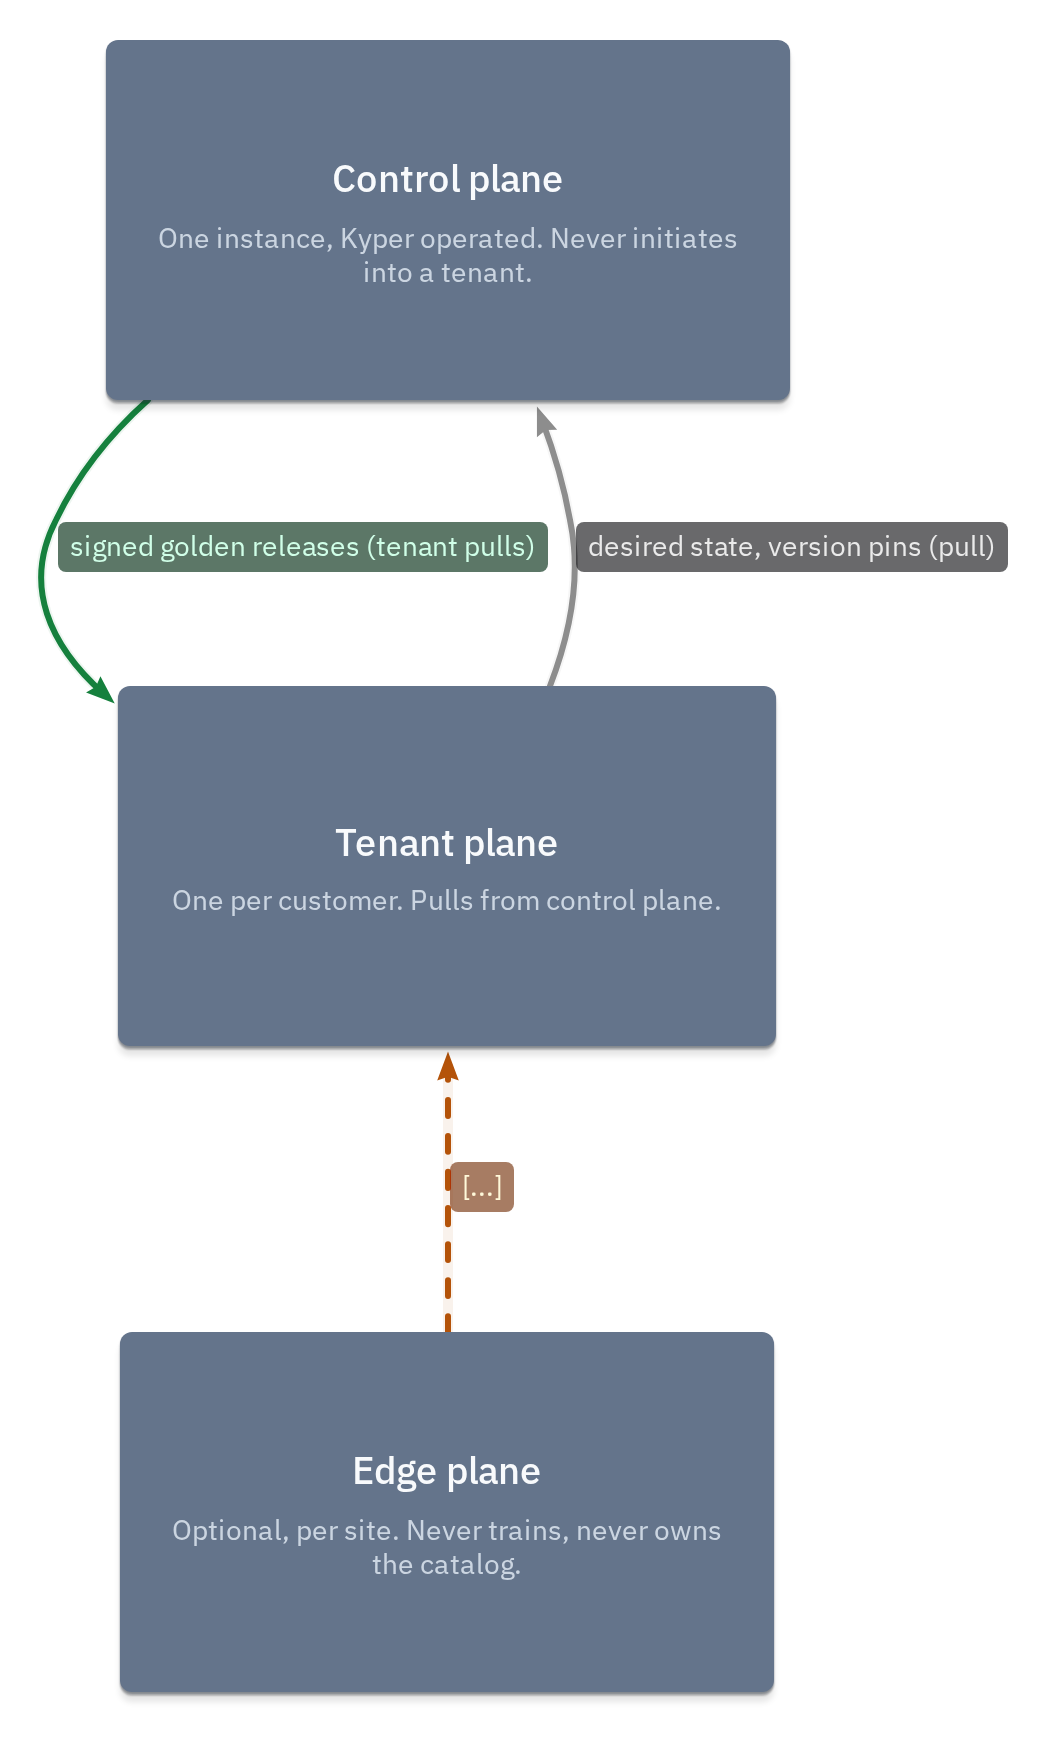
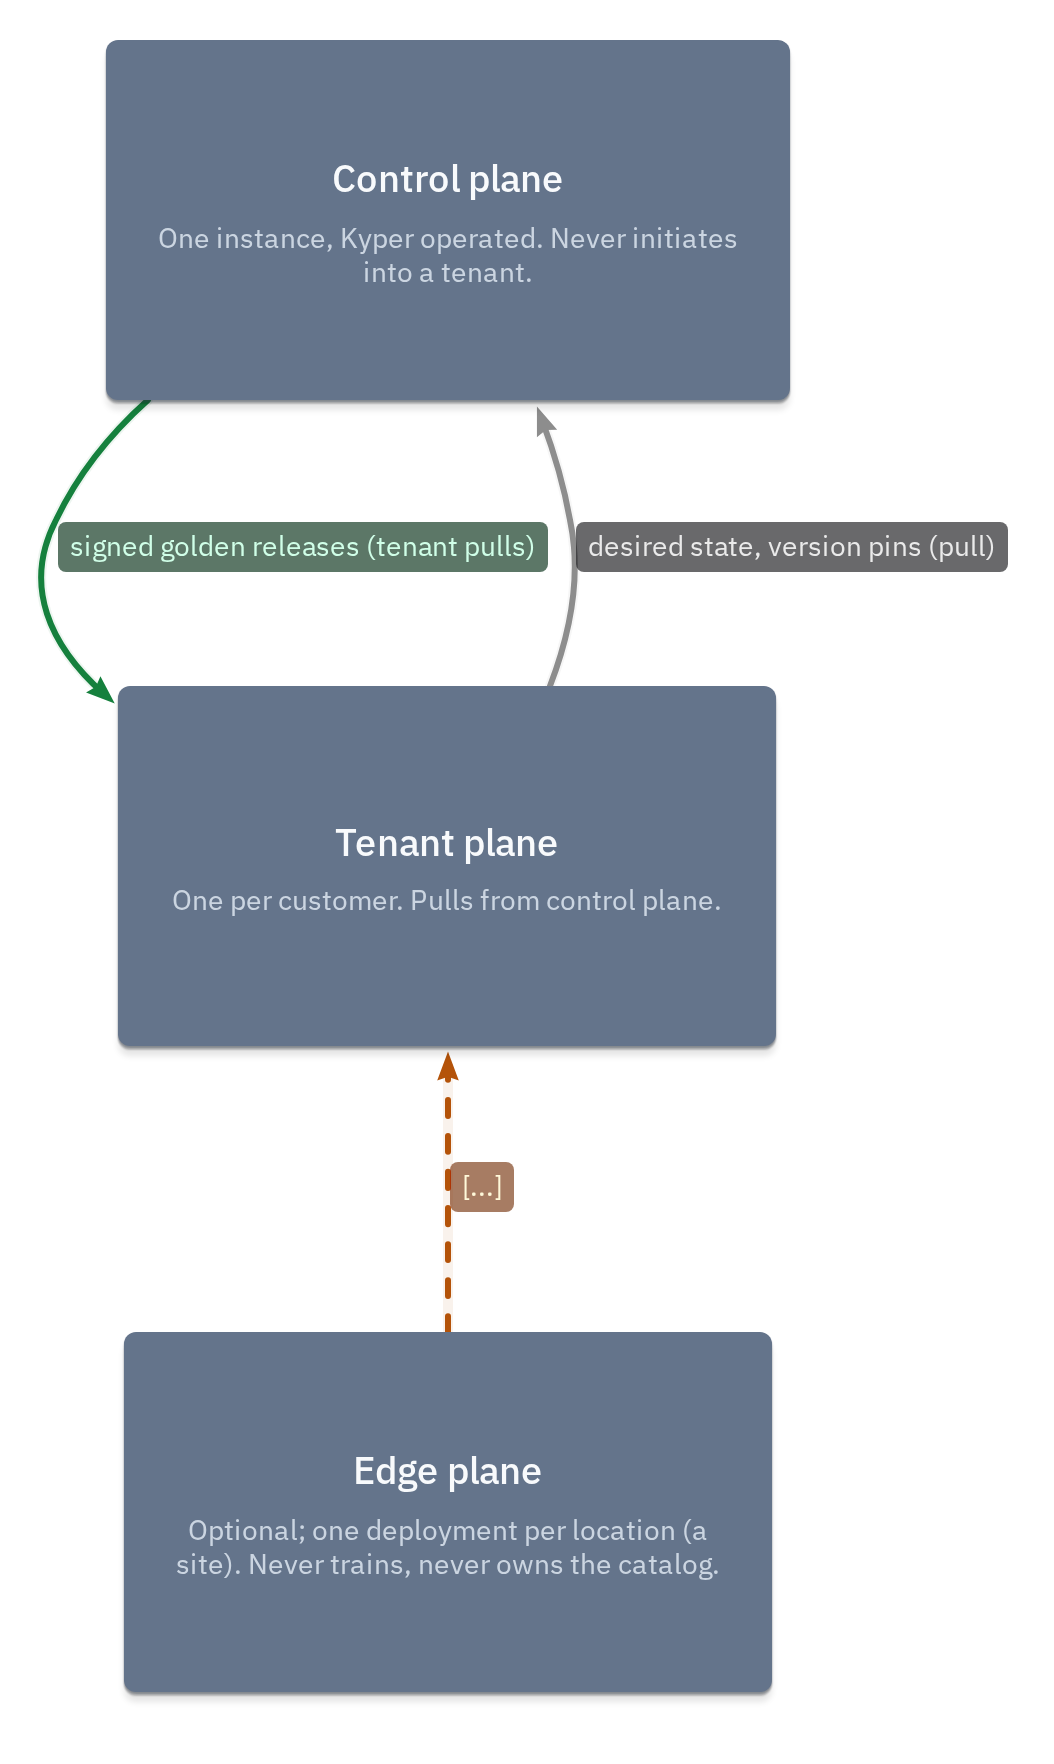
Terms alignment

Changed region(s): [[0.334, 0.8107, 0.6679, 0.9042], [0.1518, 0.8418, 0.3036, 0.9042], [0.0911, 0.7483, 0.1214, 0.9666]]

diff --git a/docs/design-brief.md b/docs/design-brief.md
@@ -53,14 +53,13 @@ Trust rules, one per seam:
 
 ## Control plane (thin by design; SaaS-lens analysis pending)
 
-The tenant planes run the customers' workloads; the control plane answers
-Kyper's questions about the fleet: what should each tenant run, where does
-trustworthy software come from, who gets which release when, is everyone
-alive, which tenants are affected by a CVE, and who at Kyper may act. It
-is how one company operates many isolated platforms without many
-operations teams. Deliberately thin: it sits in no runtime path and holds
-no customer data (REQ-KYP-C-07), so a control-plane outage means "no
-updates today", never a production stop.
+The control plane is how Kyper operates the fleet: it answers what each
+tenant should run, where trustworthy software comes from, who gets which
+release when, whether every tenant is alive, which tenants a CVE affects,
+and who at Kyper may act. Customer workloads never touch it — those live
+entirely in the tenant planes. Deliberately thin: it sits in no runtime
+path and holds no customer data (REQ-KYP-C-07), so a control-plane outage
+means "no updates today", never a production stop.
 
 - Fleet config — tenant registry + desired state per tenant
 - Artifact registry — golden: signed, with SBOM
@@ -114,10 +113,19 @@ Neither plane holds an address of a service in the other.
 
 ## Edge plane — optional, per site
 
+The edge plane brings inference to where the data is born: plants and
+sites that may lose connectivity for days. It adds to serving, never
+replaces it — the tenant plane's serving area always runs inference; a
+site additionally scores locally when latency or a dead WAN demands it.
+Both runtimes consume the same promoted models from the tenant's model
+registry, in per-target variants (quantized bundles for edge). Training,
+retraining and batch scoring stay in the tenant plane, always.
+
 A site is one deployment of this plane at one location, classed by
-siteClass (connected | remote). The site is only what Kyper deploys:
-customer systems at the same location are externals, reached through the
-ingestion seam (trust rule 3), never through the site.
+siteClass (connected | remote).
+The site is only what Kyper deploys: customer systems at the same
+location are externals, reached through the ingestion seam (trust
+rule 3), never through the site.
 
 | Area | Contains | Rule |
 |---|---|---|

diff --git a/docs/requirements/KYP-E-RT.md b/docs/requirements/KYP-E-RT.md
@@ -6,6 +6,7 @@ authoritative (ADR-0010). Edge never trains, never owns the catalog.
 | ID | Requirement | satisfied-by |
 |---|---|---|
 | REQ-KYP-E-RT-01 | Inference MUST continue through WAN loss for the contracted disconnection window. | ADR-0003 |
+| REQ-KYP-E-RT-05 | Site inference MUST add to tenant serving, never replace it: a tenant without any site is fully functional, and both runtimes consume the same promoted models in per-target variants. | ADR-0004 |
 | REQ-KYP-E-RT-02 | Store-and-forward MUST lose no telemetry up to its declared buffer capacity; overflow policy is explicit (drop-oldest vs block). | ADR-0003 |
 | REQ-KYP-E-RT-03 | Local alerting MUST raise and acknowledge offline; acks sync upward on reconnect; tenant alerting owns escalation after reconcile. | ADR-0010 |
 | REQ-KYP-E-RT-04 | Preprocessing MUST reduce telemetry to the traffic priority of the site's siteClass. | ADR-0003 |

diff --git a/adr/0014-data-layer-storage-layers.md b/adr/0014-data-layer-storage-layers.md
@@ -4,13 +4,13 @@ status: proposed
 date: 2026-08-31
 affects: [KYP-T-DATA, KYP-T-DATA-04]
 ---
-# Layer the storage band: time-series, lakehouse, serving, operational
+# Layer the data layer's storage group: time-series, lakehouse, serving, operational
 
 ## Context
-Telemetry is the platform's primary data shape, but the storage band gives
+Telemetry is the platform's primary data shape, but the storage group gives
 it no home: raw sensor data has only a generic object store to land in, and
 vector search hides inside an undifferentiated "Indexes" store. Access
-patterns in the band differ by orders of magnitude (ingest-rate appends vs
+patterns in the group differ by orders of magnitude (ingest-rate appends vs
 batch analytics vs millisecond similarity lookups) yet are not named.
 
 ## Decision
